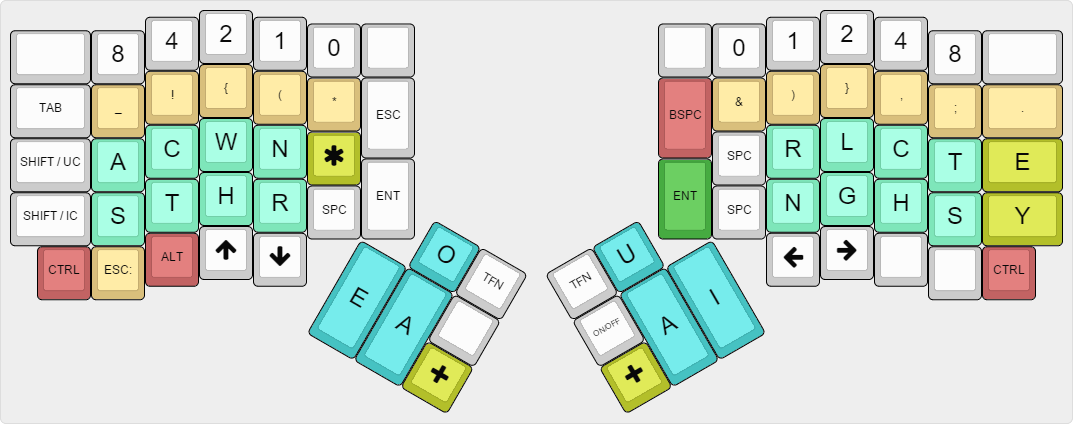
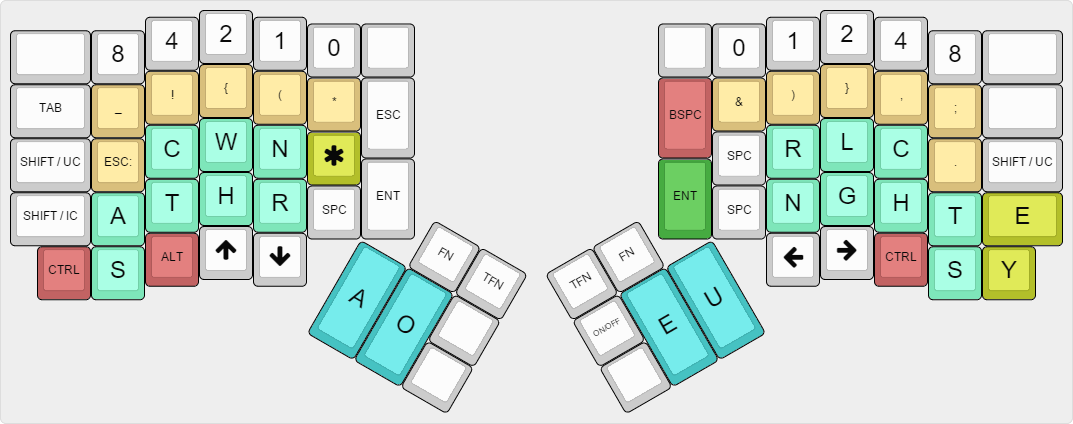
Go back to 4 vowels version + layout update

diff --git a/keyboard/ergodox_ez/keymaps/fromtonrouge/keymap.c b/keyboard/ergodox_ez/keymaps/fromtonrouge/keymap.c
@@ -24,7 +24,7 @@
 enum key_family
 {
     FAMILY_UNKNOWN,
-    FAMILY_MIGHTY_STAR,
+    FAMILY_ASTERISK,
     FAMILY_CASE_CONTROLS,
     FAMILY_LEFT_USER_SYMBOLS,
     FAMILY_LEFT_HAND,
@@ -42,8 +42,8 @@ enum key_family
 #define STENO_BIT (1L << 31) 
 
 // 1 bit mighty star
-#define OFFSET_MIGHTY_STAR 0
-#define M_STAR (0 | (FAMILY_MIGHTY_STAR << 4) | STENO_BIT)
+#define OFFSET_ASTERISK 0
+#define M_STAR (0 | (FAMILY_ASTERISK << 4) | STENO_BIT)
 
 // 8 bits for the left hand
 #define OFFSET_LEFT_HAND 1
@@ -56,17 +56,15 @@ enum key_family
 #define L_N (6 | (FAMILY_LEFT_HAND << 4) | STENO_BIT)
 #define L_R (7 | (FAMILY_LEFT_HAND << 4) | STENO_BIT)
 
-// 6 bits for the thumbs
+// 4 bits for the thumbs
 #define OFFSET_THUMBS 9
-#define T_E (0 | (FAMILY_THUMBS << 4) | STENO_BIT)
+#define T_A (0 | (FAMILY_THUMBS << 4) | STENO_BIT)
 #define T_O (1 | (FAMILY_THUMBS << 4) | STENO_BIT)
-#define T_A (2 | (FAMILY_THUMBS << 4) | STENO_BIT)
+#define T_E (2 | (FAMILY_THUMBS << 4) | STENO_BIT)
 #define T_U (3 | (FAMILY_THUMBS << 4) | STENO_BIT)
-#define T_I (4 | (FAMILY_THUMBS << 4) | STENO_BIT)
-#define T_PLUS (5 | (FAMILY_THUMBS << 4) | STENO_BIT)
 
 // 8 bits for the right hand
-#define OFFSET_RIGHT_HAND 15
+#define OFFSET_RIGHT_HAND 13
 #define R_R (0 | (FAMILY_RIGHT_HAND << 4) | STENO_BIT)
 #define R_N (1 | (FAMILY_RIGHT_HAND << 4) | STENO_BIT)
 #define R_L (2 | (FAMILY_RIGHT_HAND << 4) | STENO_BIT)
@@ -77,18 +75,18 @@ enum key_family
 #define R_S (7 | (FAMILY_RIGHT_HAND << 4) | STENO_BIT)
 
 // 2 bits for E and Y
-#define OFFSET_RIGHT_PINKY 23
+#define OFFSET_RIGHT_PINKY 21
 #define RP_E  (0 | (FAMILY_RIGHT_PINKY << 4) | STENO_BIT)
 #define RP_Y  (1 | (FAMILY_RIGHT_PINKY << 4) | STENO_BIT)
 
 // 3 bits for space control keys
-#define OFFSET_SPACE_CONTROLS 25
+#define OFFSET_SPACE_CONTROLS 23
 #define S_SPC  (0 | (FAMILY_SPACES << 4) | STENO_BIT)
 #define S_TAB  (1 | (FAMILY_SPACES << 4) | STENO_BIT)
 #define S_ENT  (2 | (FAMILY_SPACES << 4) | STENO_BIT)
 
 // 2 bits for case control keys (upper case, initial case)
-#define OFFSET_CASE_CONTROLS 28
+#define OFFSET_CASE_CONTROLS 26
 #define C_UP   (0 | (FAMILY_CASE_CONTROLS << 4) | STENO_BIT)
 #define C_IUP  (1 | (FAMILY_CASE_CONTROLS << 4) | STENO_BIT)
 
@@ -130,7 +128,7 @@ enum key_family
 const uint8_t g_family_to_bit_offset[NB_FAMILY] =
 {
     0,
-    OFFSET_MIGHTY_STAR,
+    OFFSET_ASTERISK,
     OFFSET_CASE_CONTROLS,
     OFFSET_LEFT_USER_SYMBOLS,
     OFFSET_LEFT_HAND,
@@ -242,21 +240,21 @@ KEYMAP(
                 // Left hand
                 0,      NL_B3,      NL_B2,      NL_B1,      NL_B0,      NL_N0,        0,
                 S_TAB,  USRL_1,     USRL_2,     USRL_3,     USRL_4,     USRL_5,       0,
-                C_UP,   L_A,        L_C,        L_W,        L_N,        M_STAR,
-                C_IUP,  L_S,        L_T,        L_H,        L_R,        S_SPC,        S_ENT,
-                0,      USRL_0,     0,          0,          0,
-                                                                                           T_O,     0,
+                C_UP,   USRL_0,     L_C,        L_W,        L_N,        M_STAR,
+                C_IUP,  L_A,        L_T,        L_H,        L_R,        S_SPC,        S_ENT,
+                0,      L_S,        0,          0,          0,
+                                                                                           0,       0,
                                                                                                     0,
-                                                                                    T_E,   T_A,     T_PLUS,
+                                                                                    T_A,   T_O,     0,
                 // Right hand
                             0,     NR_N0,      NR_B0,      NR_B1,      NR_B2,      NR_B3,      0,
-                            0,     USRR_0,     USRR_1,     USRR_2,     USRR_3,     USRR_4,     USRR_5,
-                                   S_SPC,      R_R,        R_L,        R_C,        R_T,        RP_E,
-                            0,     S_SPC,      R_N,        R_G,        R_H,        R_S,        RP_Y,
-                                               0,          0,          0,          0,          0,
-                0,          T_U,
+                            0,     USRR_0,     USRR_1,     USRR_2,     USRR_3,     USRR_4,     0,
+                                   S_SPC,      R_R,        R_L,        R_C,        USRR_5,     C_UP,
+                            0,     S_SPC,      R_N,        R_G,        R_H,        R_T,        RP_E,
+                                               0,          0,          0,          R_S,        RP_Y,
+                0,          0,
                 0,
-                T_PLUS,     T_A,   T_I
+                0,     T_E, T_U
 ),
 
 // SHIFT STENO MAP (when C_IUP or C_UP are pressed)
@@ -317,18 +315,18 @@ const uint16_t PROGMEM keymaps[][MATRIX_ROWS][MATRIX_COLS] = {
         ST_ON,        ST_ON,      ST_ON,      ST_ON,      ST_ON,      ST_ON,   
         ST_ON,        ST_ON,      ST_ON,      ST_ON,      ST_ON,      ST_ON,        ST_ON,
         KC_TRNS,      ST_ON,      KC_TRNS,    KC_TRNS,    KC_TRNS,
-                                                                                        ST_ON,      KC_TRNS,
+                                                                                        KC_TRNS,    KC_TRNS,
                                                                                                     KC_TRNS,
-                                                                            ST_ON,      ST_ON,      ST_ON,
+                                                                            ST_ON,      ST_ON,      KC_TRNS,
         // right hand
                     ST_ON,          ST_ON,      ST_ON,      ST_ON,      ST_ON,      ST_ON,      ST_ON,
                     KC_TRNS,        ST_ON,      ST_ON,      ST_ON,      ST_ON,      ST_ON,      ST_ON,
                                     ST_ON,      ST_ON,      ST_ON,      ST_ON,      ST_ON,      ST_ON,   
                     KC_TRNS,        ST_ON,      ST_ON,      ST_ON,      ST_ON,      ST_ON,      ST_ON,   
-                                                KC_TRNS,    KC_TRNS,    ST_ON,      ST_ON,      KC_TRNS,
-        KC_TRNS,      ST_ON,
+                                                KC_TRNS,    KC_TRNS,    KC_RCTL,    ST_ON,      ST_ON,
+        KC_TRNS,      KC_TRNS,
         KC_TRNS,
-        ST_ON,        ST_ON,      ST_ON    
+        KC_TRNS,      ST_ON,      ST_ON    
 ),
 
 // SHIFTED LAYER
@@ -397,8 +395,8 @@ void stroke(void)
     bool initial_case_2 = false;
     uint8_t sent_count = 0;
 
-    // Get mighty star and case controls info
-    const bool mighty_star = g_family_bits[FAMILY_MIGHTY_STAR] != 0;
+    // Get asterisk and case controls info
+    const bool asterisk = g_family_bits[FAMILY_ASTERISK] != 0;
     const uint8_t case_controls_bits = g_family_bits[FAMILY_CASE_CONTROLS];
     if (case_controls_bits)
     {
@@ -439,7 +437,7 @@ void stroke(void)
                     else
                     {
                         // Double the consonnant for the right hand only
-                        if (    mighty_star && (register_count == 1)
+                        if (    asterisk && (register_count == 1)
                                 && (g_family_bits[FAMILY_THUMBS] != 0) 
                                 && (family_id == FAMILY_RIGHT_HAND)
                                 && (last_byte != 0))
@@ -489,7 +487,7 @@ void stroke(void)
 
         g_undo_stack[g_undo_stack_index++] = sent_count;
     }
-    else if (mighty_star)
+    else if (asterisk)
     {
         // Compute the previous index
         int8_t previous_index = g_undo_stack_index - 1;

diff --git a/keyboard/ergodox_ez/keymaps/fromtonrouge/lookup_tables/shelton_tables.h b/keyboard/ergodox_ez/keymaps/fromtonrouge/lookup_tables/shelton_tables.h
@@ -264,72 +264,24 @@ const uint8_t PROGMEM g_left_hand_table[256][MAX_LETTERS] =
     NO_ENTRY                                // [255]
 };
 
-const uint8_t PROGMEM g_thumbs_table[64][MAX_LETTERS] =
+const uint8_t PROGMEM g_thumbs_table[16][MAX_LETTERS] =
 {
     NO_ENTRY,                               // [0]
-    _1(_E),                                 // [1]
+    _1(_A),                                 // [1]
     _1(_O),                                 // [2]
-    _2(_E, _O),                             // [3]
-    _1(_A),                                 // [4]
+    _2(_I, _O),                             // [3]
+    _1(_E),                                 // [4]
     _2(_E, _A),                             // [5]
-    _2(_O, _A),                             // [6]
-    _3(_E, _O, _A),                         // [7]
+    _2(_I, _E),                             // [6]
+    _2(_E, _E),                             // [7]
     _1(_U),                                 // [8]
-    _2(_E, _U),                             // [9]
+    _2(_A, _U),                             // [9]
     _2(_O, _U),                             // [10]
-    _3(_E, _O, _U),                         // [11]
-    _2(_A, _U),                             // [12]
-    _3(_E, _A, _U),                         // [13]
-    _3(_O, _A, _U),                         // [14]
-    _4(_E, _O, _A, _U),                     // [15]
-    _1(_I),                                 // [16]
-    _2(_E, _I),                             // [17]
-    _2(_O, _I),                             // [18]
-    _3(_E, _O, _I),                         // [19]
-    _2(_A, _I),                             // [20]
-    _3(_E, _A, _I),                         // [21]
-    _3(_O, _A, _I),                         // [22]
-    _4(_E, _O, _A, _I),                     // [23]
-    _2(_U, _I),                             // [24]
-    _3(_E, _U, _I),                         // [25]
-    _3(_O, _U, _I),                         // [26]
-    _4(_E, _O, _U, _I),                     // [27]
-    _3(_A, _U, _I),                         // [28]
-    _4(_E, _A, _U, _I),                     // [29]
-    _4(_O, _A, _U, _I),                     // [30]
-    _5(_E, _O, _A, _U, _I),                 // [31]
-    NO_ENTRY,                               // [32]
-    _2(_E, _E),                             // [33]
-    _2(_O, _O),                             // [34]
-    _2(_O, _E),                             // [35]
-    _2(_A, _A),                             // [36]
-    _2(_A, _E),                             // [37]
-    _2(_A, _O),                             // [38]
-    _3(_E, _A, _O),                         // [39]
-    _2(_U, _U),                             // [40]
-    _2(_U, _E),                             // [41]
-    _2(_U, _O),                             // [42]
-    _3(_E, _U, _O),                         // [43]
-    _2(_U, _A),                             // [44]
-    _3(_E, _U, _A),                         // [45]
-    _3(_O, _U, _A),                         // [46]
-    _4(_E, _O, _U, _A),                     // [47]
-    _2(_I, _I),                             // [48]
-    _2(_I, _E),                             // [49]
-    _2(_I, _O),                             // [50]
-    _3(_E, _I, _O),                         // [51]
-    _2(_I, _A),                             // [52]
-    _3(_E, _I, _A),                         // [53]
-    _3(_O, _I, _A),                         // [54]
-    _4(_E, _O, _I, _A),                     // [55]
-    _2(_I, _U),                             // [56]
-    _3(_E, _I, _U),                         // [57]
-    _3(_O, _I, _U),                         // [58]
-    _4(_E, _O, _I, _U),                     // [59]
-    _3(_A, _I, _U),                         // [60]
-    _4(_E, _A, _I, _U),                     // [61]
-    _4(_O, _A, _I, _U),                     // [62]
-    _5(_E, _O, _A, _I, _U)                  // [63]
+    _2(_O, _O),                             // [11]
+    _1(_I),                                 // [12]
+    _2(_A, _I),                             // [13]
+    _2(_O, _I),                             // [14]
+    _2(_A, _O)                              // [15]
 };
 
 const uint8_t PROGMEM g_right_hand_table[256][MAX_LETTERS] =

diff --git a/keyboard/ergodox_ez/keymaps/fromtonrouge/readme.md b/keyboard/ergodox_ez/keymaps/fromtonrouge/readme.md
@@ -214,9 +214,21 @@ Numbers are binary numbers (experimental) : you can stroke 2 numbers at the same
 
 ### Lookup table for thumbs 
 
-    Vowel keys stroked together will always appear in the same left-to right sequence (EOAUI) if stroked together
-    Please see : https://sites.google.com/site/ploverdoc/jackdaw#TOC-Vowels
-    The '+' key will double the voyel or invert the 2 last voyels.
+    A               =       A                   [1]
+    AI              =       A|E|U               [13]
+    AO              =       A|O|E|U             [15]
+    AU              =       A|U                 [9]
+    E               =       E                   [4]
+    EA              =       A|E                 [5]
+    EE              =       A|O|E               [7]
+    I               =       E|U                 [12]
+    IE              =       O|E                 [6]
+    IO              =       A|O                 [3]
+    O               =       O                   [2]
+    OI              =       O|E|U               [14]
+    OO              =       A|O|U               [11]
+    OU              =       O|U                 [10]
+    U               =       U                   [8]
 
 ### Lookup table for the right hand (Shelton table)
 
